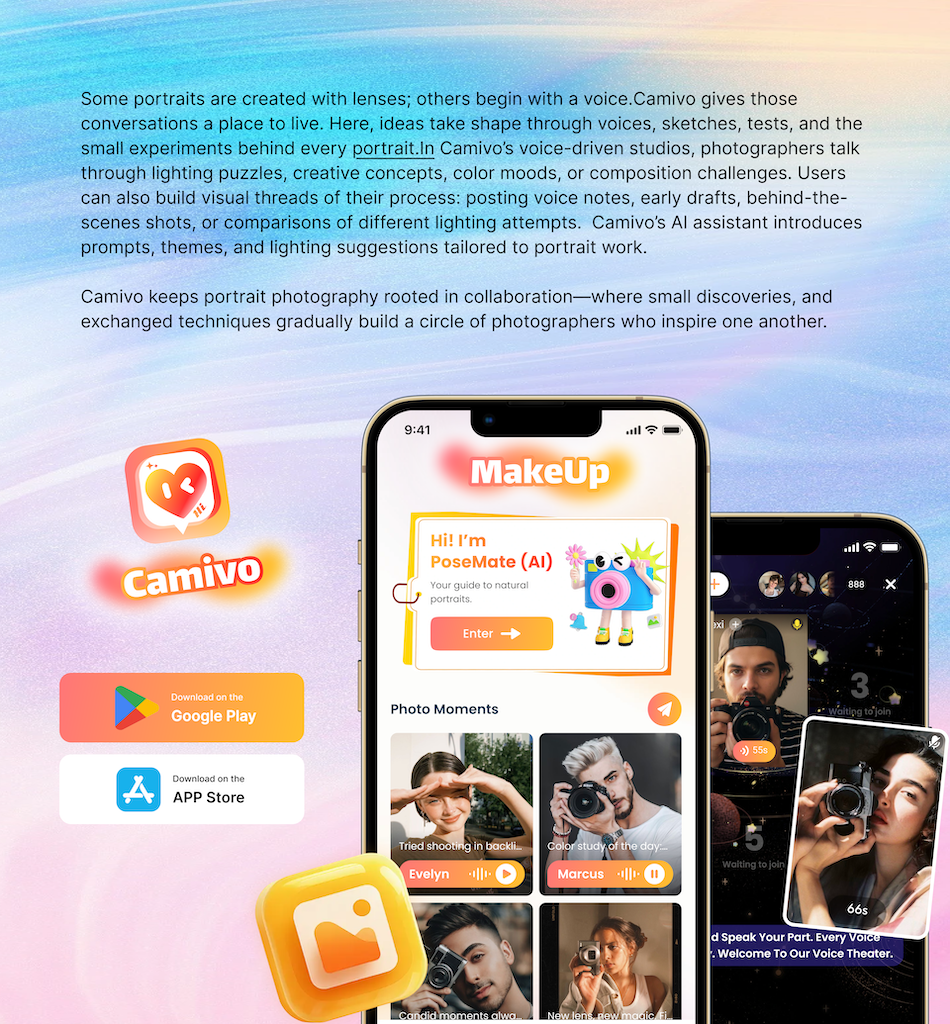
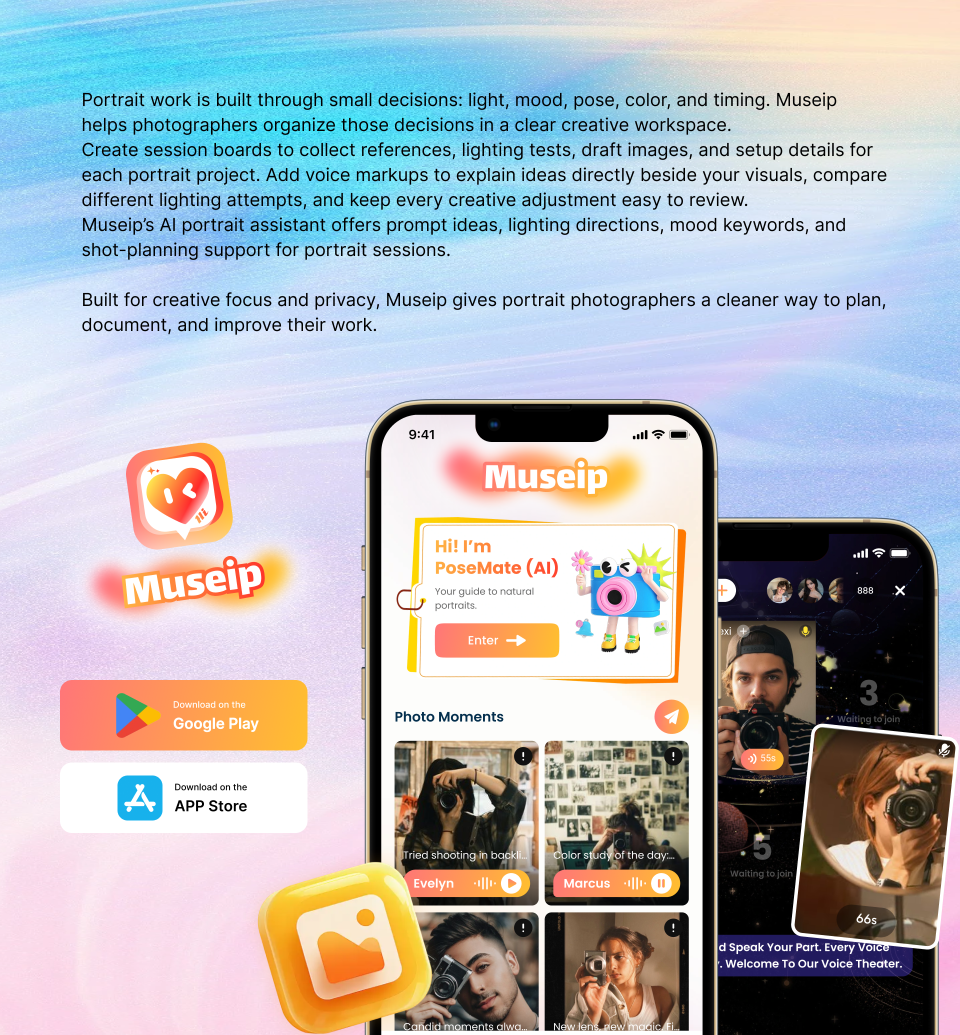
666

diff --git a/index.html b/index.html
@@ -4,7 +4,7 @@
   <meta charset="UTF-8">
   <meta name="viewport" content="width=device-width, initial-scale=1.0">
   <link rel="icon" href="/favicon.svg" type="image/svg+xml">
-  <title>Camivo</title>
+  <title>Museip</title>
   <meta name="description" content="Opinionated Vite Starter Template">
 </head>
 <body class="font-sans">

diff --git a/src/pages/index.vue b/src/pages/index.vue
@@ -10,7 +10,7 @@ defineOptions({
 
     <div class="email" absolute bottom-10 w-full flex justify-center>
       <div rd-2 bg-black p-2 p-x-5 text-8 color-white>
-        Camivo99826@gmail.com
+        Museip99826@gmail.com
       </div>
     </div>
   </div>

diff --git a/src/pages/privacy.vue b/src/pages/privacy.vue
@@ -2,7 +2,7 @@
 defineOptions({
   name: 'IndexPage',
 })
-const appName = 'Camivo'
+const appName = 'Museip'
 </script>
 
 <template>

diff --git a/src/pages/users.vue b/src/pages/users.vue
@@ -2,7 +2,7 @@
 defineOptions({
   name: 'IndexPage',
 })
-const appName = 'Camivo'
+const appName = 'Museip'
 </script>
 
 <template>
